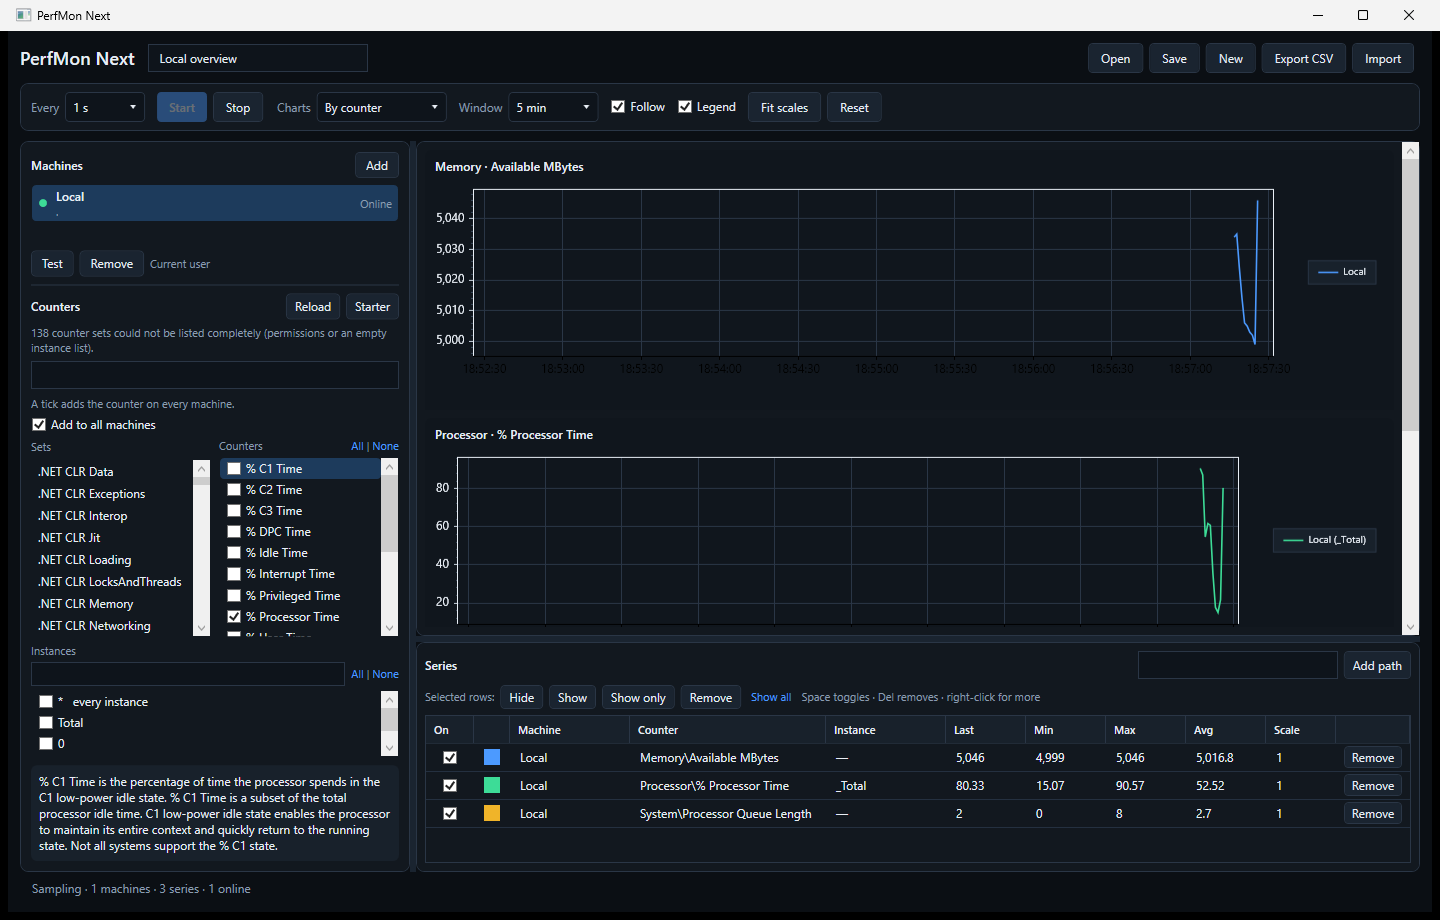
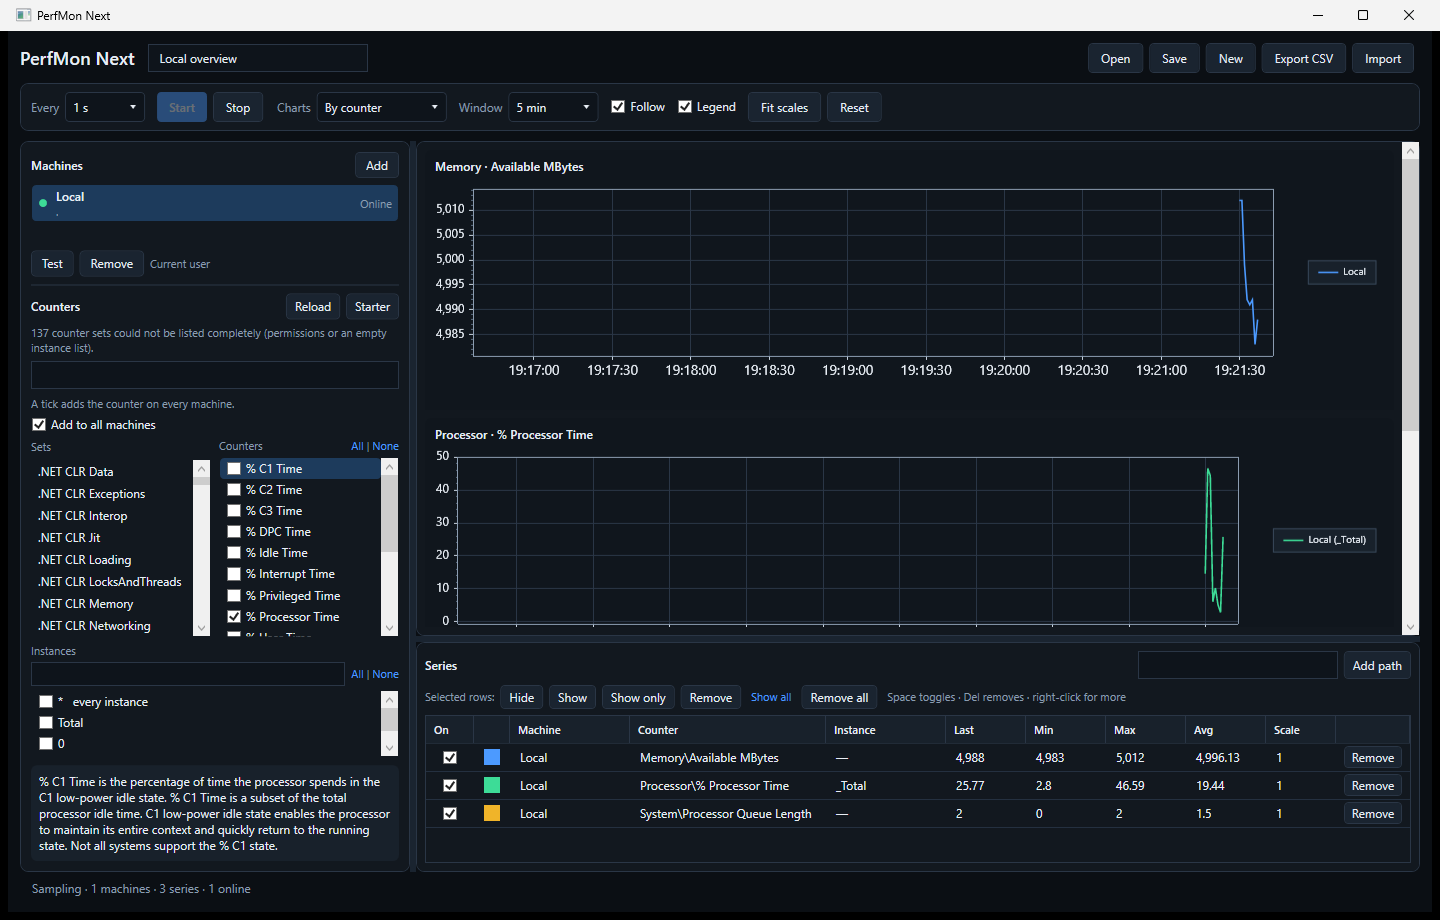
Docs for v0.3.3: Remove all in the series table; refresh screenshots with readable dark-theme axis labels.

diff --git a/README.md b/README.md
@@ -9,7 +9,7 @@ This repository holds **public documentation and signed releases** only. The sou
 - Live charts grouped by counter, by machine, or combined, plus a series table (last, min, max, average, scale)
 - **Table only** mode that turns the charts off and keeps the series report updating, handy with many series
 - Compact chart legend (up to 6 entries plus "+N more") that you can switch off, a readable time axis, and **Reset** to return to the live view
-- Bulk work in the series table: multi-select rows, then **Hide**, **Show**, **Show only**, or **Remove** them (also on the right-click menu; **Space** toggles, **Delete** removes)
+- Bulk work in the series table: multi-select rows, then **Hide**, **Show**, **Show only**, or **Remove** them (also on the right-click menu; **Space** toggles, **Delete** removes), or **Remove all** to start over with the same machines
 - Bulk selection in the picker: **All** / **None**, Shift-click ranges, **Ctrl+A**, and an instance filter
 - Type a **cluster name** in Add machine and every node of that failover cluster is added automatically
 - Searchable counter picker with explain text, a built-in starter catalog, and **Add path** for pasted PerfMon-style paths

diff --git a/docs/user-guide.md b/docs/user-guide.md
@@ -36,6 +36,7 @@ Select several rows with Shift-click or Ctrl-click (or **Ctrl+A**), then use the
 - **Show only** (**Show only these** in the menu): show the selection and hide every other series.
 - **Show all**: make every series visible again.
 - **Remove**: stop collecting the selected series.
+- **Remove all**: remove every counter and series at once and untick everything in the picker, so you can start a fresh selection. The machines list is not changed. If more than three series would go, PerfMon Next asks first.
 
 Keys in the table: **Space** toggles the selection (if any selected series is visible, they are all hidden; otherwise they are all shown) and **Delete** removes it. Click the color swatch to cycle a series color, and type into **Scale** to set a display factor.
 
